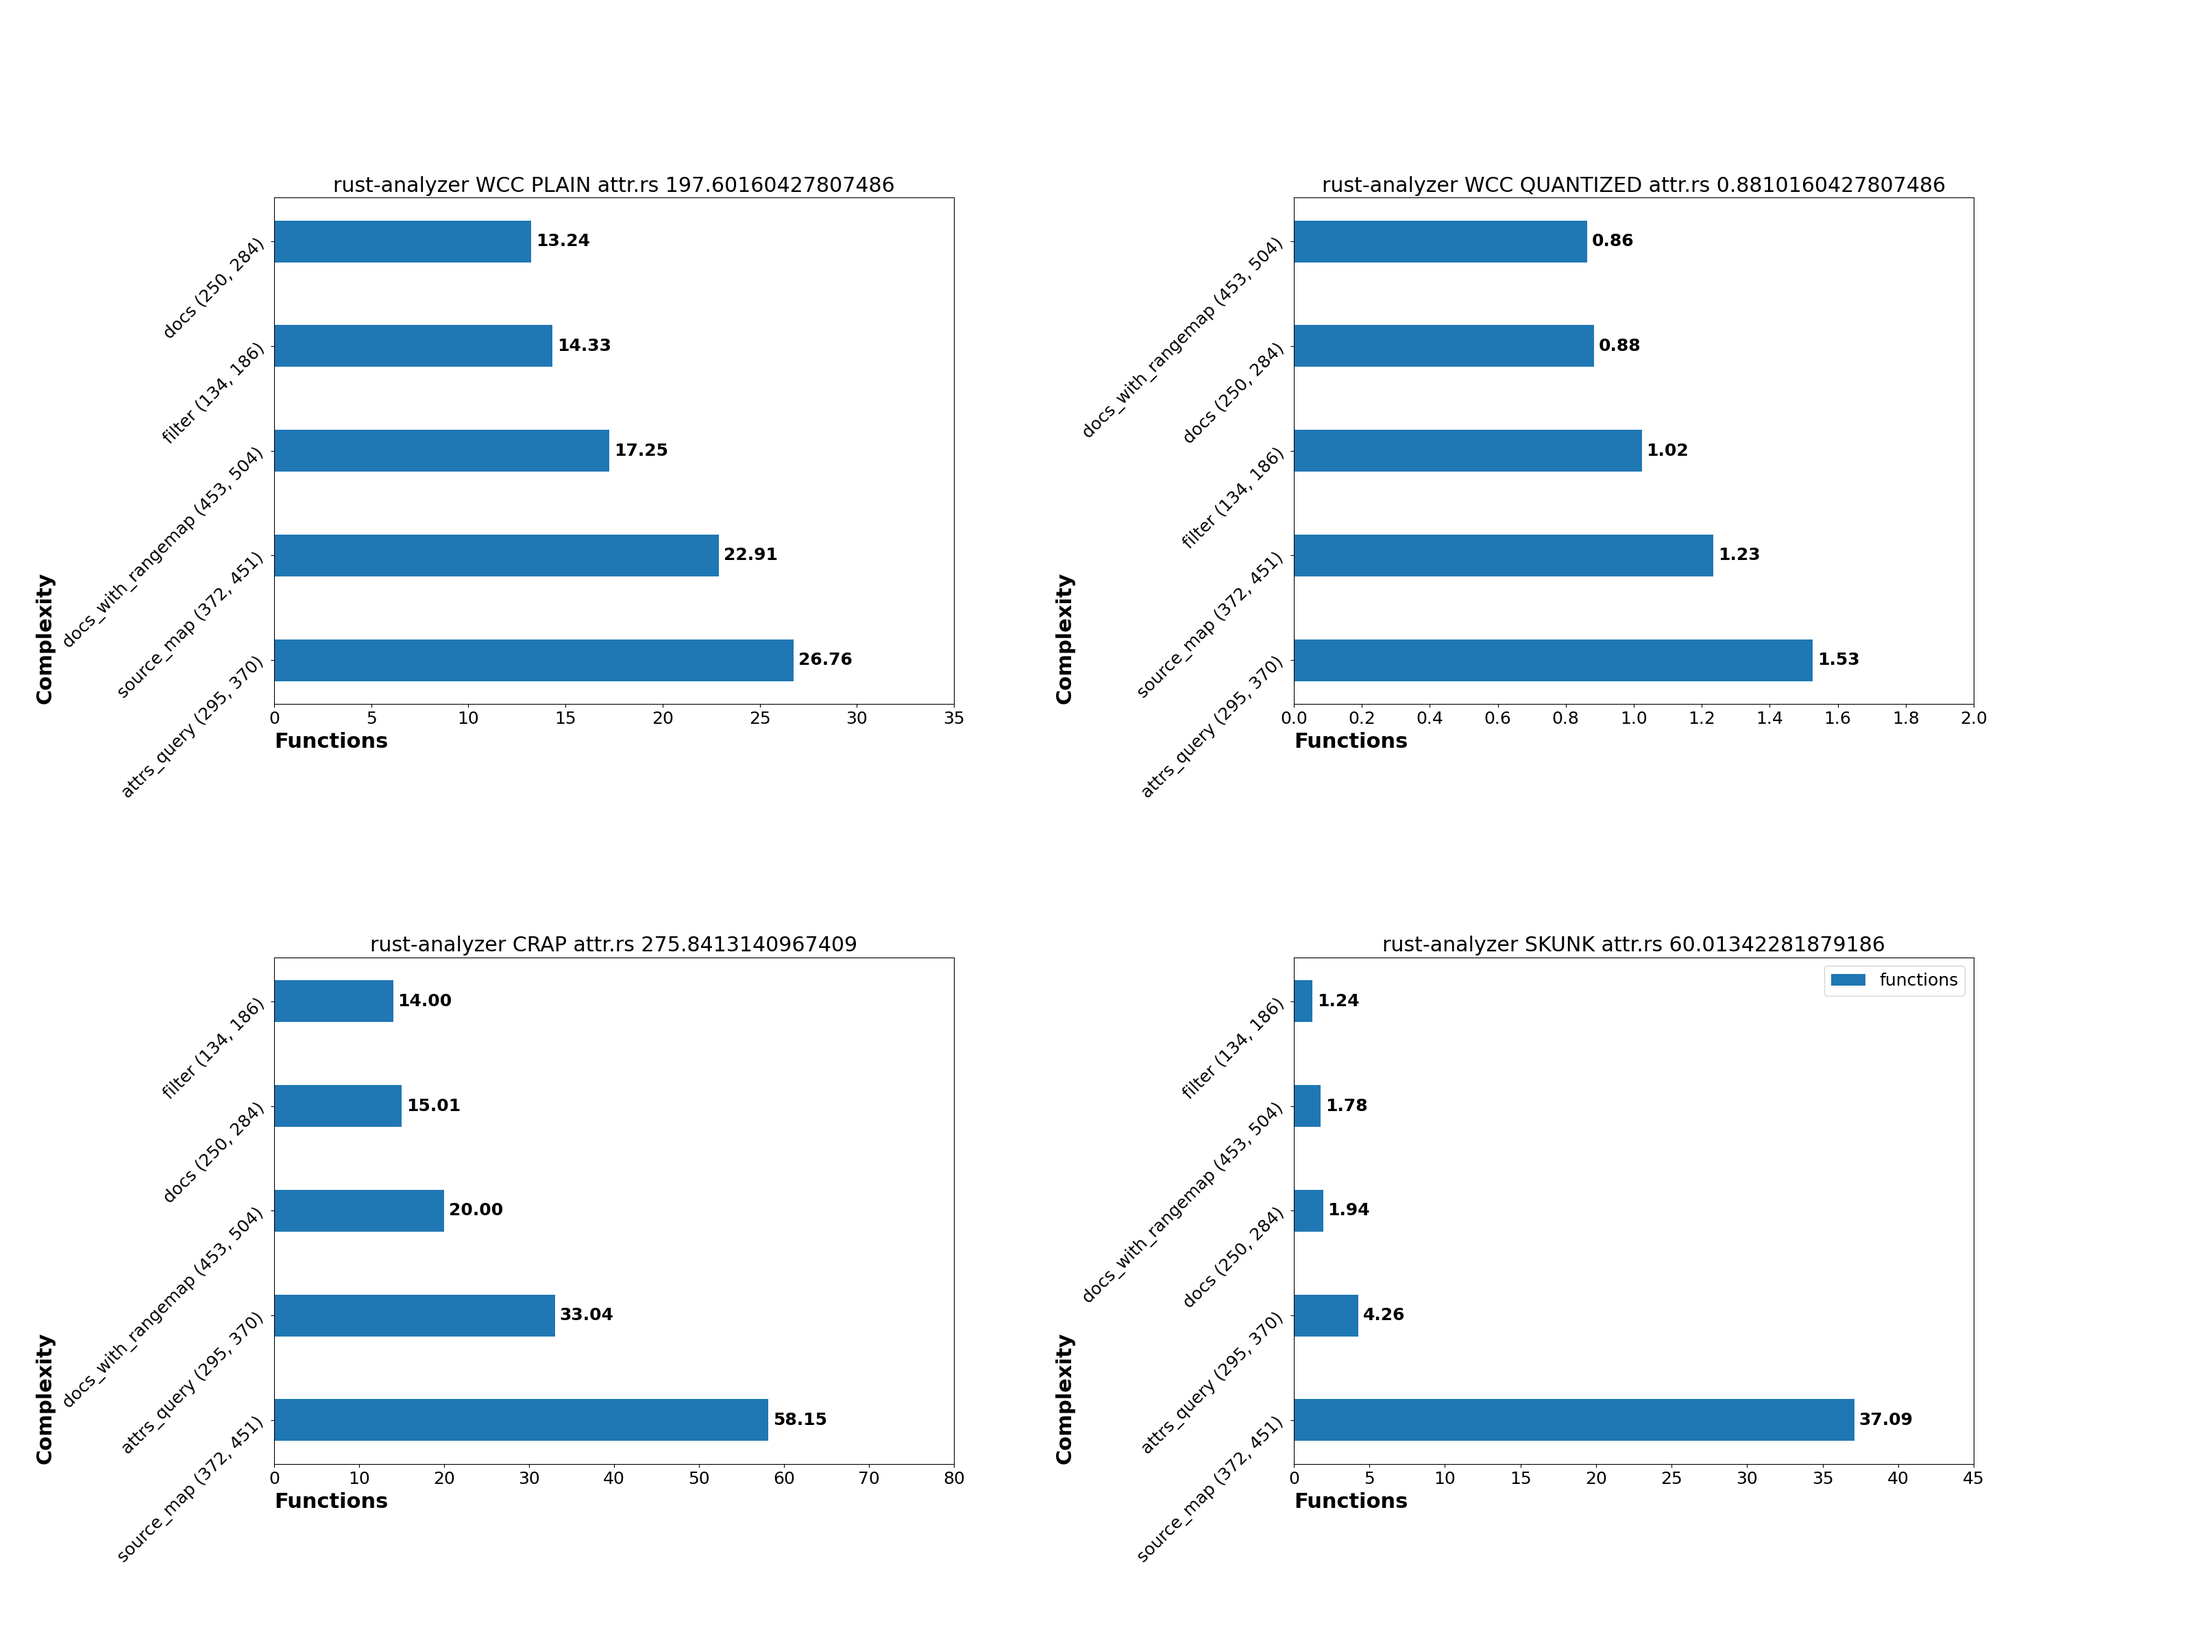
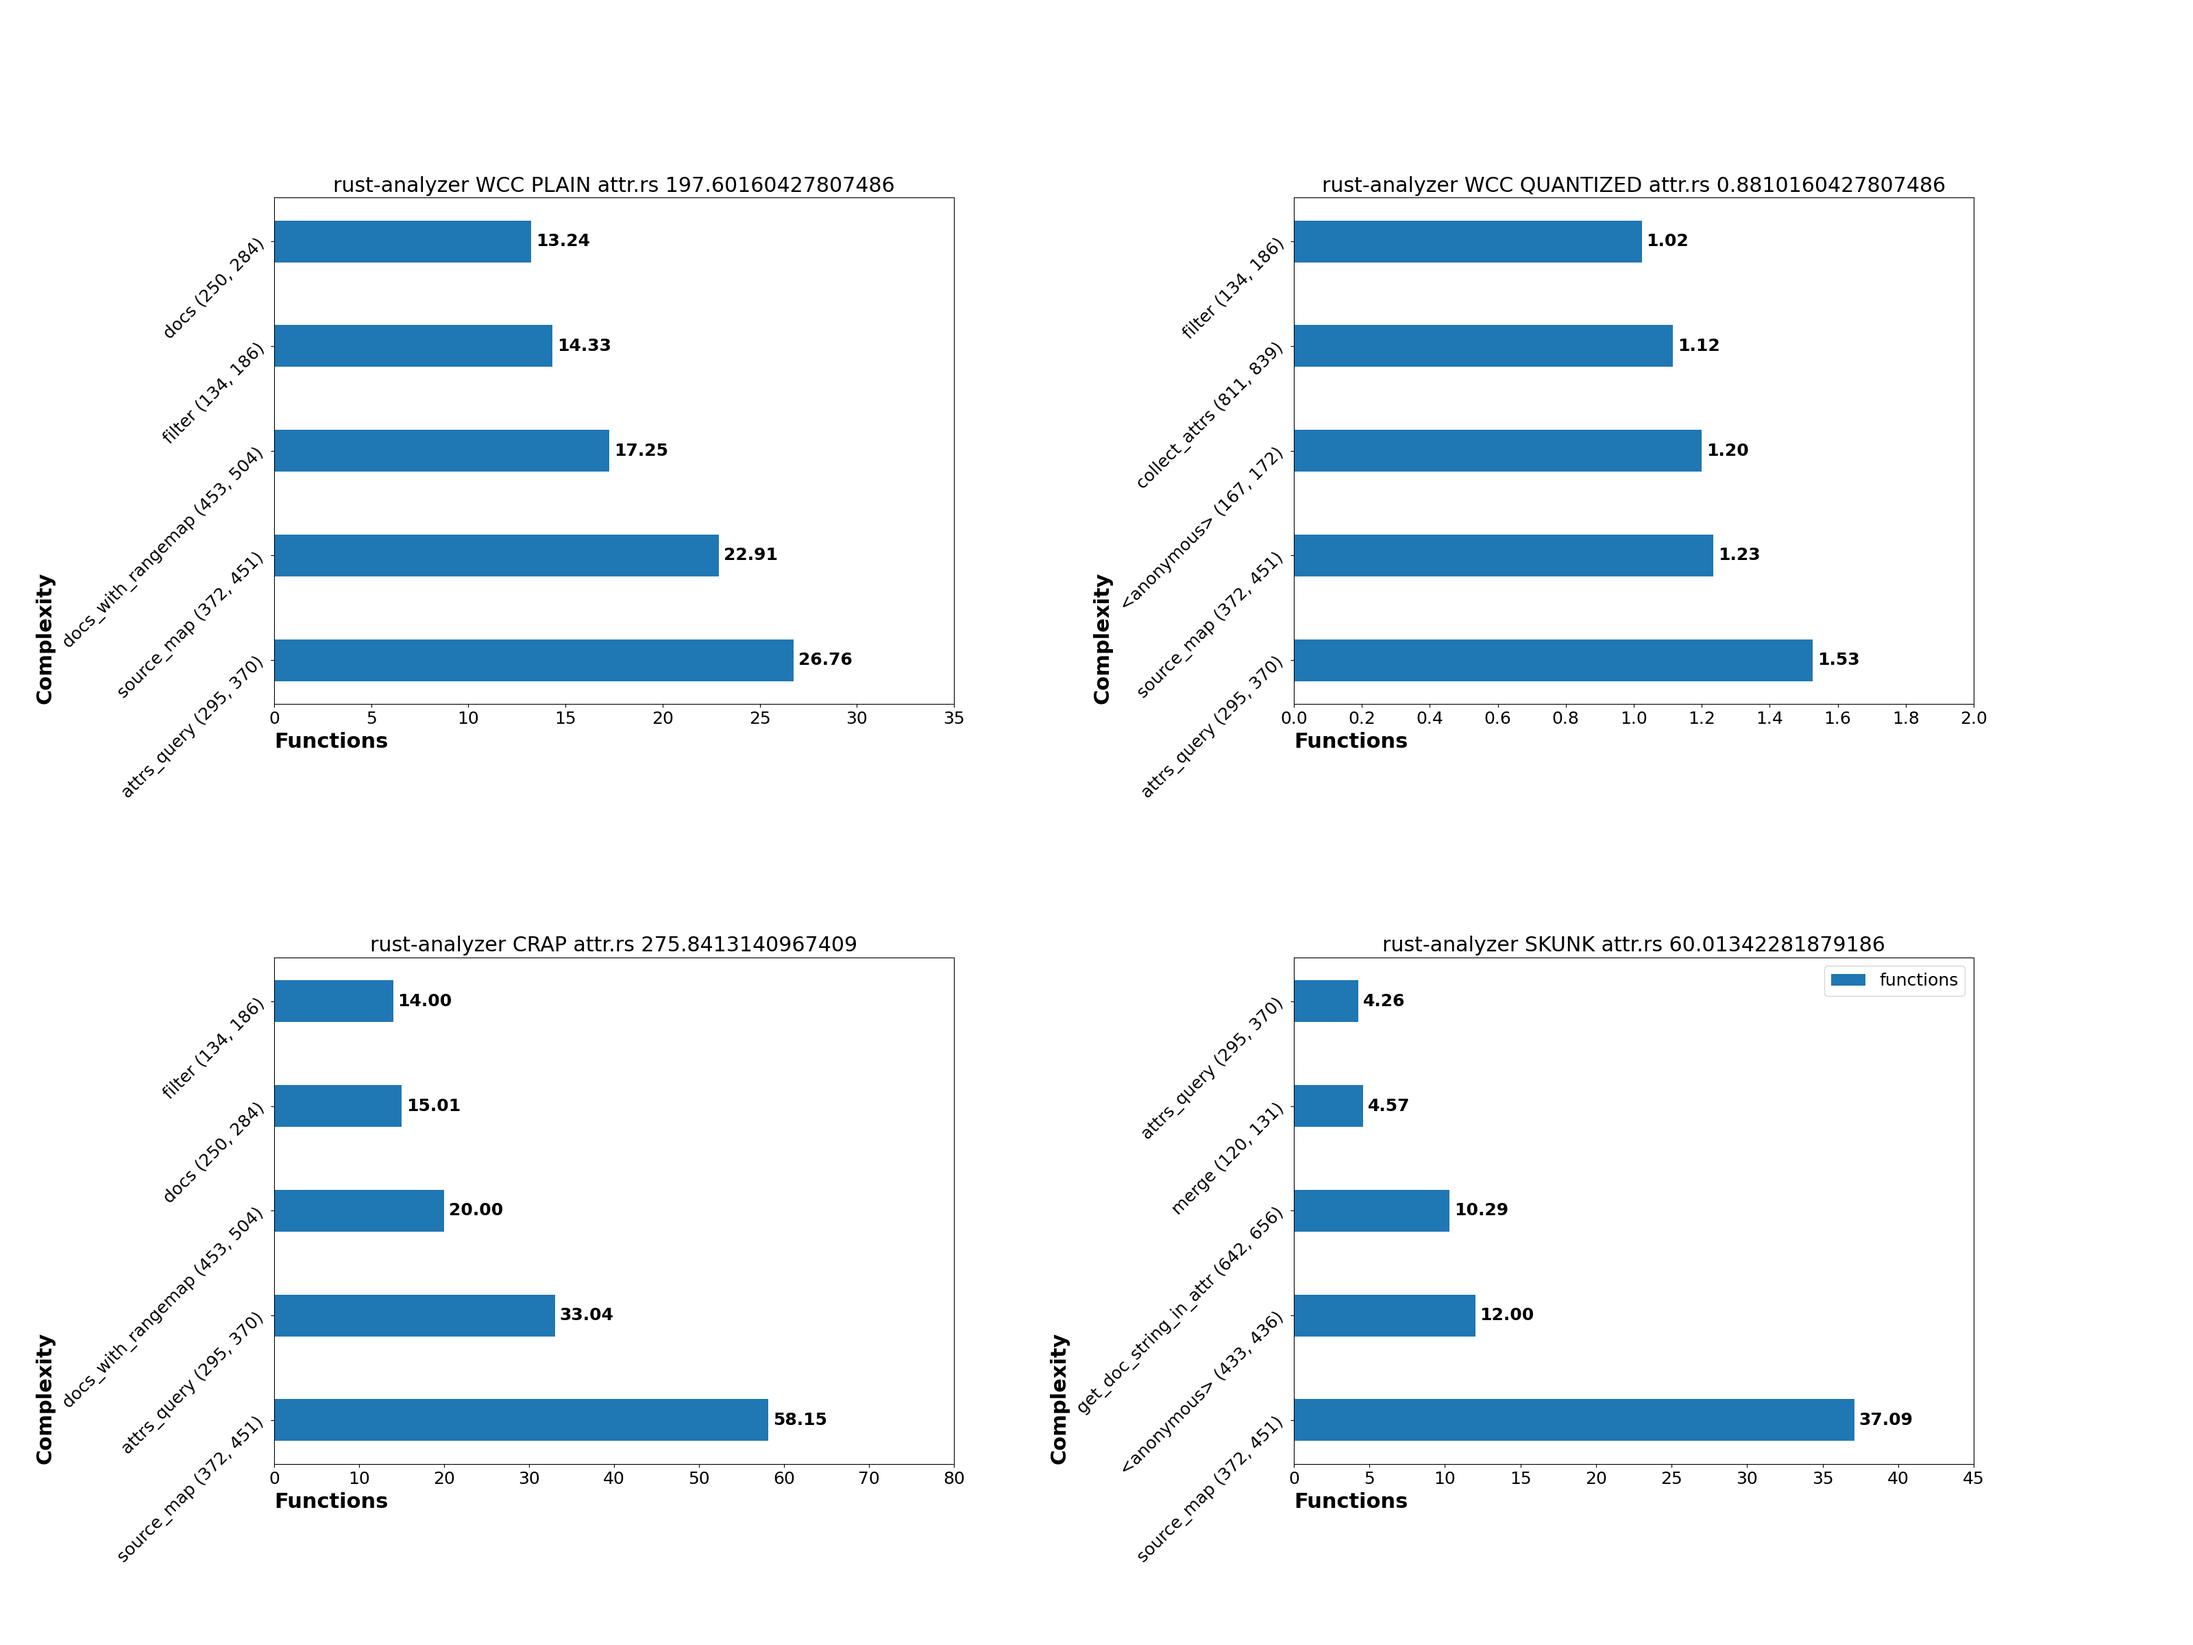
changes some graphs

diff --git a/time-analysis.py b/time-analysis.py
@@ -181,11 +181,15 @@ def plot_complex_functions(image_path,map,map_complex):
     ratios = np.divide(complex,total)
     ratios= np.multiply(ratios,100.0)
     for i in range(0,len(x)):
-        plt.text(i, (100.0-ratios[i])//2 +ratios[i],str(round(100.0-ratios[i],2))+" %", color='snow', va='center',ha='center',fontweight='bold')
+        plt.text(i, (100.0-ratios[i])//2 +ratios[i],str(round(100.0-ratios[i],2))+"%", color='snow', va='center',ha='center',fontweight='bold')
+        if ratios[i]>2-0:
+            plt.text(i, (ratios[i])//2,str((round(ratios[i],2)))+"%", color='snow', va='center',ha='center',fontweight='bold')
+        else:
+            plt.text(i, (ratios[i])+1.0,str((round(ratios[i],2)))+"%", color='snow', va='center',ha='center',fontweight='bold')
     bar1=plt.bar(x, np.full(len(x),100), 0.5, label="Remaining percentage of function")
     bar2=plt.bar(x, ratios, 0.5,color="r", label="Percentage of complex function")
     #plt.bar_label(bar1,padding=5,fontweight='bold')
-    plt.bar_label(bar2,label_type='center',fmt="%.2f %%",color="snow",fontweight='bold')
+    #plt.bar_label(bar2,label_type='center',fmt="%.2f %%",color="snow",fontweight='bold')
     yt=plt.yticks()[0]
     #yt.append()
     plt.yticks(yt)

diff --git a/static-analysis.py b/static-analysis.py
@@ -153,6 +153,7 @@ def plot_most_significant_functions(img_path,map,key,index):
     ## WCC QUANTIZED
     x=[]
     y=[]
+    msf = s_cyc[index]["functions"].copy()
     msf.sort(key=lambda x: x["metrics"]["sifis_quantized"], reverse=True)
     sq = s_cyc[index]["metrics"]["sifis_quantized"]
     msf=msf[0:5]
@@ -173,6 +174,7 @@ def plot_most_significant_functions(img_path,map,key,index):
     ## crap
     x=[]
     y=[]
+    msf = s_cyc[index]["functions"].copy()
     msf.sort(key=lambda x: x["metrics"]["crap"], reverse=True)
     sq = s_cyc[index]["metrics"]["crap"]
     msf=msf[0:5]
@@ -193,6 +195,7 @@ def plot_most_significant_functions(img_path,map,key,index):
     ## skunk
     x=[]
     y=[]
+    msf = s_cyc[index]["functions"].copy()
     msf.sort(key=lambda x: x["metrics"]["skunk"], reverse=True)
     sq = s_cyc[index]["metrics"]["skunk"]
     msf=msf[0:5]
